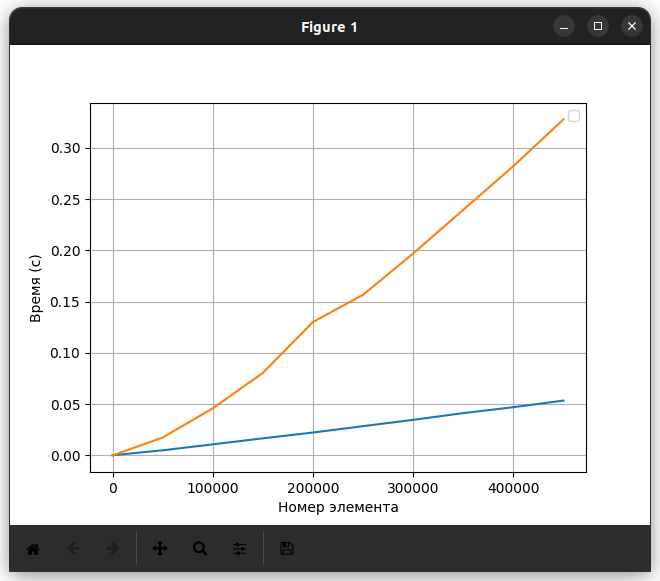
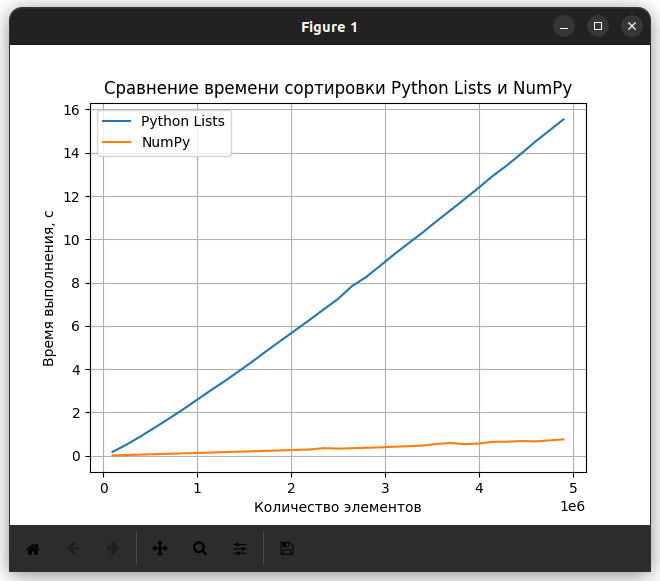
Done

diff --git a/z4.py b/z4.py
@@ -1,31 +1,44 @@
-import numpy as np 
 import time 
-import random 
-import matplotlib.pyplot as plt 
+import random
+import numpy as np
+import matplotlib.pyplot as plt
 
-list_times = [] 
-np_times = [] 
-element_counts = [] 
-   
-for i in range(10, 5000000, 150000): 
-	element_counts.append(i) 
-	big_np_array = np.random.sample(i) 
-	start = time.time() 
-	np.sort(big_np_array) 
-	end = time.time() - start 
-	np_times.append(end) 
-	big_lists_array = []
-	for j in range(i):
-		big_lists_array.append(random.random()) 
-	start = time.time() 
-	big_lists_array.sort() 
-	end = time.time() - start 
-	list_times.append(end) 
-   
-plt.plot(element_counts, np_times) 
-plt.plot(element_counts, list_times) 
-plt.xlabel('Номер элемента') 
-plt.ylabel('Время (с)') 
-plt.grid() 
-plt.legend() 
+
+
+# списки для хранения времени сортировки
+list_times = []
+numpy_times = []
+
+
+element_counts = list(range(100000, 5000000, 150000))
+
+for count in element_counts:
+    # случайный массив данных для сортировки
+    data = np.random.rand(count)
+
+    # время сортировки для списка Python
+    start_time = time.time()
+    sorted_list = sorted(data)
+    list_time = time.time() - start_time
+    list_times.append(list_time)
+
+    # время сортировки для NumPy
+    start_time = time.time()
+    sorted_numpy = np.sort(data)
+    numpy_time = time.time() - start_time
+    numpy_times.append(numpy_time)
+
+# построение графика
+plt.plot(element_counts, list_times, label='Python Lists')
+plt.plot(element_counts, numpy_times, label='NumPy')
+plt.xlabel('Количество элементов')
+plt.ylabel('Время выполнения, с')
+plt.title('Сравнение времени сортировки Python Lists и NumPy')
+plt.legend()
+plt.grid(True)
 plt.show()
+
+
+
+
+
